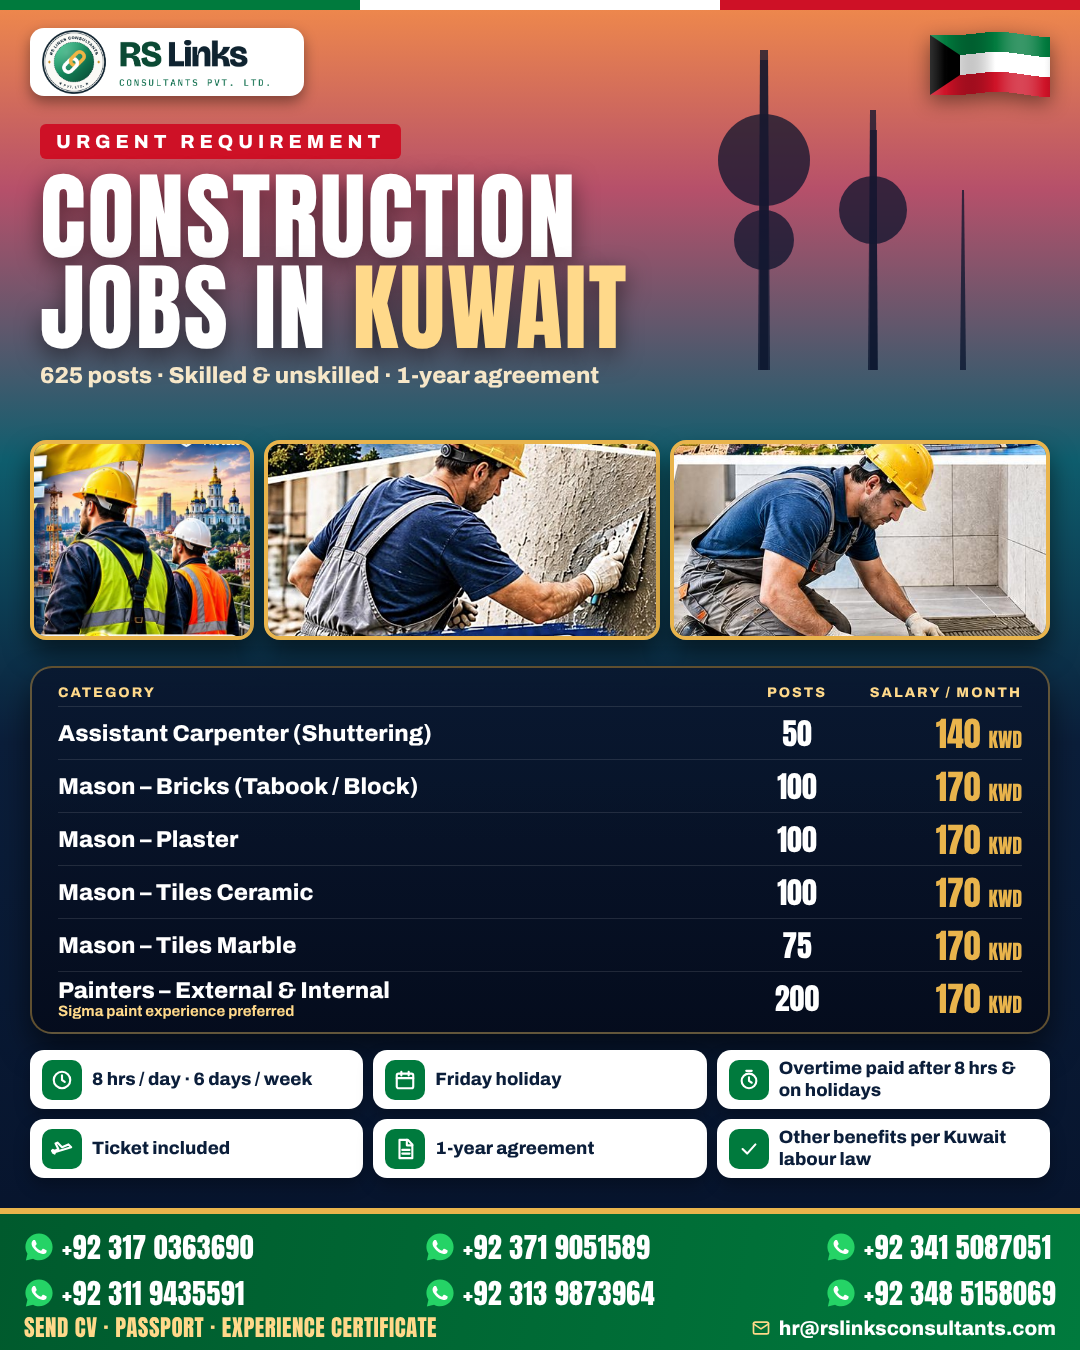
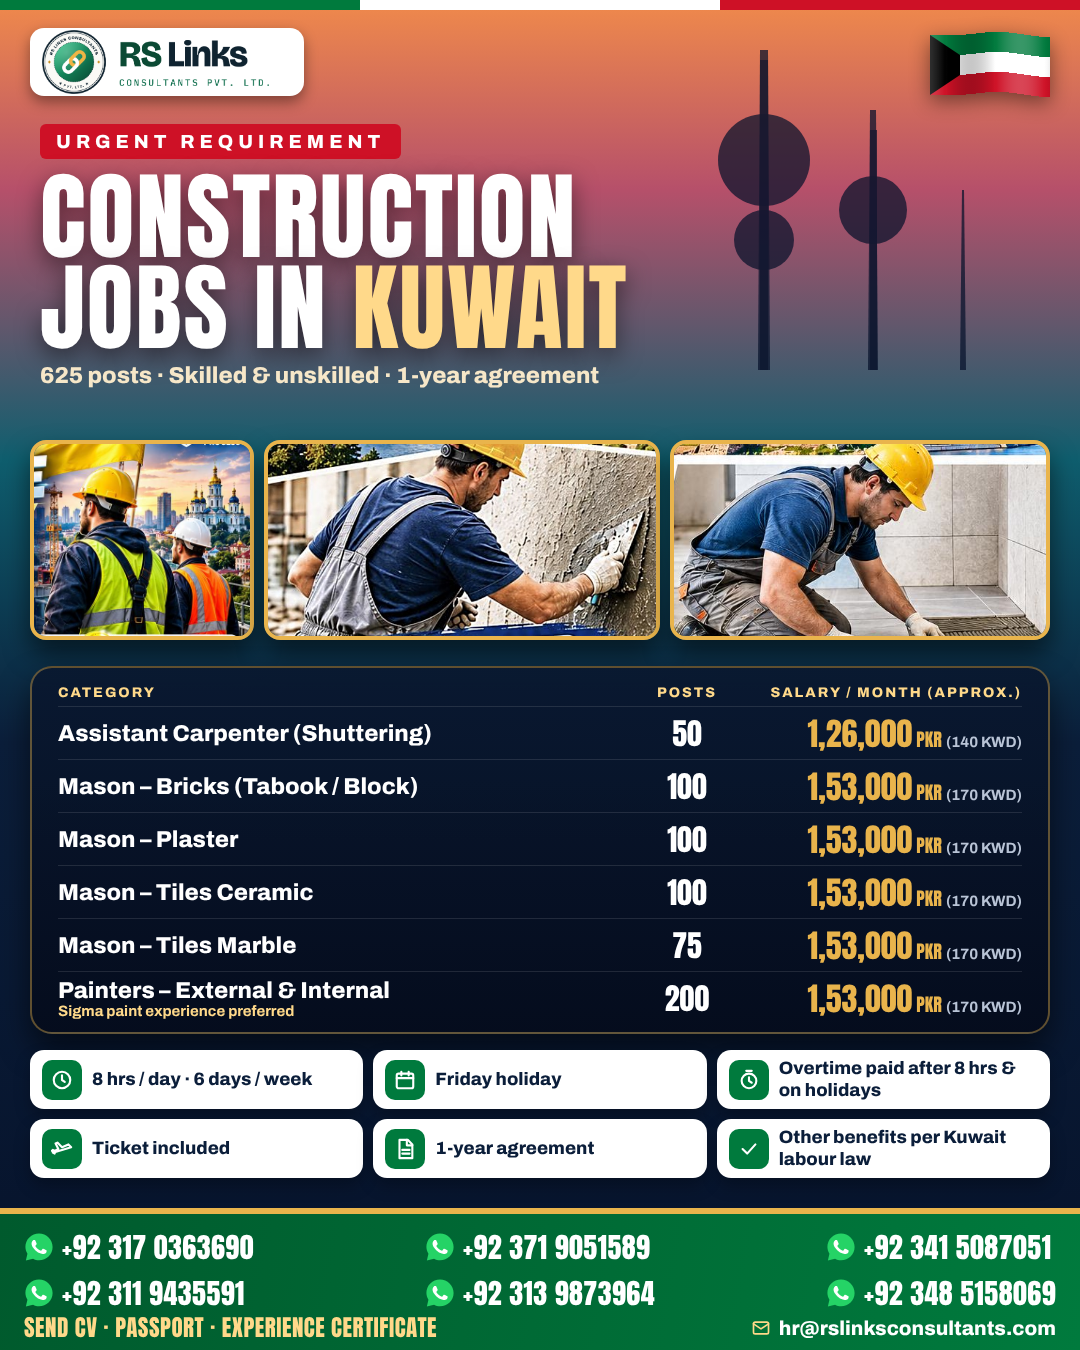
Kuwait construction ads: salaries in PKR (approx.) with KWD
Claude-Session: https://claude.ai/code/session_01YJ5ofgU8QCiWTsYR9pvXG4

Changed region(s): [[0.7028, 0.4978, 0.9472, 0.7778], [0.6111, 0.4978, 0.6722, 0.7467]]

diff --git a/src/kuwait_construction_ur.py b/src/kuwait_construction_ur.py
@@ -5,16 +5,17 @@ from kuwait_construction import NAVY, NAVY2, TEAL, GOLD, GOLD2, GRN, RED, INK, E
 
 N = lambda v: f"<span class='num'>{v}</span>"
 T = lambda s, px, c, extra="", lh=1.8: f"<div class='t' style='font-size:{px}px;color:{c};line-height:{lh};{extra}'>{s}</div>"
+PKR = {'140': '1,26,000', '170': '1,53,000'}  # approx. at 1 KWD ≈ 900 PKR (user to confirm)
 JOBS = [("اسسٹنٹ کارپینٹر (شٹرنگ)", "", "50", "140"), ("میسن – برک (طابوق / بلاک)", "", "100", "170"), ("میسن – پلستر", "", "100", "170"),
         ("میسن – سرامک ٹائلز", "", "100", "170"), ("میسن – ماربل ٹائلز", "", "75", "170"), ("پینٹرز – ایکسٹرنل و انٹرنل", "سگما پینٹ کا تجربہ رکھنے والوں کو ترجیح", "200", "170")]
 
 
 def build():
     P = lambda f: (PHOTOS / f).as_uri()
-    rows = "".join(f"<div style='display:grid;grid-template-columns:1fr 110px 170px;align-items:center;min-height:56px;border-top:1px solid #ffffff1c'>"
+    rows = "".join(f"<div style='display:grid;grid-template-columns:1fr 90px 290px;align-items:center;min-height:56px;border-top:1px solid #ffffff1c'>"
                    f"<div>{T(t, 25, '#fff', 'font-weight:700', 1.75)}{T(n, 15, GOLD2, 'font-weight:700;margin-top:10px', 1.4) if n else ''}</div>"
                    f"<span style='font:400 30px Anton;color:#fff;text-align:center'>{q}</span>"
-                   f"<span style='font:400 34px Anton;color:{GOLD};text-align:left;direction:ltr'>{s} <span style='font-size:20px'>KWD</span></span></div>" for t, n, q, s in JOBS)
+                   f"<span style='text-align:left;direction:ltr;line-height:1;white-space:nowrap'><span style='font:400 32px Anton;color:{GOLD}'>{PKR[s]}</span> <span style='font:400 18px Anton;color:{GOLD}'>PKR</span> <span style='font:700 15px Archivo;color:#B9C4D6'>({s} KWD)</span></span></div>" for t, n, q, s in JOBS)
     chips = [("clock", f"ڈیوٹی {N(8)} گھنٹے · ہفتے میں {N(6)} دن"), ("calendar", "جمعہ چھٹی"), ("overtime", f"{N(8)} گھنٹے کے بعد اور چھٹی پر اوور ٹائم"),
              ("plane", "ٹکٹ شامل"), ("doc", f"{N(1)} سال کا معاہدہ"), ("check", "دیگر مراعات کویت لیبر لاء کے مطابق")]
     chip = "".join(f"<div style='display:flex;align-items:center;gap:10px;background:#fff;border-radius:14px;padding:4px 12px;box-shadow:0 8px 16px #0004'>"
@@ -37,9 +38,9 @@ def build():
  <div style='flex:1.13'>{ph('ua_hero.png', 'center')}</div><div style='flex:2'>{ph('rs_plaster2.jpg', 'center')}</div><div style='flex:1.92'>{ph('rs_tile_mason.png', 'center')}</div></div>
 
 <div class='abs' style='top:666px;left:30px;right:30px;border-radius:22px;background:linear-gradient(180deg,#0A1830ee,#050C1Cee);border:2px solid {GOLD}66;padding:6px 26px 8px;box-sizing:border-box;box-shadow:0 16px 30px #0008'>
- <div style='display:grid;grid-template-columns:1fr 110px 170px;height:36px;align-items:center'>{T('شعبہ', 18, GOLD2, 'font-weight:700', 1.6)}{T('آسامیاں', 18, GOLD2, 'font-weight:700;text-align:center', 1.6)}{T('ماہانہ تنخواہ', 18, GOLD2, 'font-weight:700;text-align:left', 1.6)}</div>{rows}</div>
+ <div style='display:grid;grid-template-columns:1fr 90px 290px;height:36px;align-items:center'>{T('شعبہ', 18, GOLD2, 'font-weight:700', 1.6)}{T('آسامیاں', 18, GOLD2, 'font-weight:700;text-align:center', 1.6)}{T('ماہانہ تنخواہ (تقریباً)', 18, GOLD2, 'font-weight:700;text-align:left', 1.6)}</div>{rows}</div>
 
-<div class='abs' style='top:1074px;left:30px;right:30px;display:grid;grid-template-columns:1fr 1fr 1fr;gap:10px'>{chip}</div>
+<div class='abs' style='top:1084px;left:30px;right:30px;display:grid;grid-template-columns:1fr 1fr 1fr;gap:10px'>{chip}</div>
 
 <div class='abs' style='top:1214px;left:0;width:1080px;height:136px;background:linear-gradient(100deg,#005A2D,{GRN})'></div>
 <div class='abs' style='top:1208px;left:0;width:1080px;height:6px;background:{GOLD}'></div>

diff --git a/src/kuwait_construction.py b/src/kuwait_construction.py
@@ -11,6 +11,7 @@ from common import PHONES, PHOTOS, flag, font_css, icon, logo_img, render, whats
 
 NAVY, NAVY2, TEAL, GOLD, GOLD2, GRN, RED, INK = "#0B1E3A", "#06122A", "#0F5E6E", "#E9B44C", "#FFD98A", "#007A3D", "#CE1126", "#0B1E3A"
 EMAIL = "hr@rslinksconsultants.com"
+PKR = {'140': '1,26,000', '170': '1,53,000'}  # approx. at 1 KWD ≈ 900 PKR (user to confirm)
 JOBS = [("Assistant Carpenter (Shuttering)", "", "50", "140"), ("Mason – Bricks (Tabook / Block)", "", "100", "170"), ("Mason – Plaster", "", "100", "170"),
         ("Mason – Tiles Ceramic", "", "100", "170"), ("Mason – Tiles Marble", "", "75", "170"), ("Painters – External &amp; Internal", "Sigma paint experience preferred", "200", "170")]
 
@@ -24,10 +25,10 @@ def towers(col):
 
 def build():
     P = lambda f: (PHOTOS / f).as_uri()
-    rows = "".join(f"<div style='display:grid;grid-template-columns:1fr 110px 170px;align-items:center;min-height:53px;border-top:1px solid #ffffff1c'>"
+    rows = "".join(f"<div style='display:grid;grid-template-columns:1fr 90px 290px;align-items:center;min-height:53px;border-top:1px solid #ffffff1c'>"
                    f"<div><div style='font:800 23px Archivo;color:#fff'>{t}</div>{f'<div style=\"font:700 15px Archivo;color:{GOLD2}\">{n}</div>' if n else ''}</div>"
                    f"<span style='font:400 30px Anton;color:#fff;text-align:center'>{q}</span>"
-                   f"<span style='font:400 34px Anton;color:{GOLD};text-align:right'>{s} <span style='font-size:20px'>KWD</span></span></div>" for t, n, q, s in JOBS)
+                   f"<span style='text-align:right;line-height:1;white-space:nowrap'><span style='font:400 32px Anton;color:{GOLD}'>{PKR[s]}</span> <span style='font:400 18px Anton;color:{GOLD}'>PKR</span> <span style='font:700 15px Archivo;color:#B9C4D6'>({s} KWD)</span></span></div>" for t, n, q, s in JOBS)
     chips = [("clock", "8 hrs / day · 6 days / week"), ("calendar", "Friday holiday"), ("overtime", "Overtime paid after 8 hrs &amp; on holidays"),
              ("plane", "Ticket included"), ("doc", "1-year agreement"), ("check", "Other benefits per Kuwait labour law")]
     chip = "".join(f"<div style='display:flex;align-items:center;gap:10px;background:#fff;border-radius:14px;padding:8px 12px;box-shadow:0 8px 16px #0004'>"
@@ -50,7 +51,7 @@ def build():
  <div style='flex:1.13'>{ph('ua_hero.png', 'center')}</div><div style='flex:2'>{ph('rs_plaster2.jpg', 'center')}</div><div style='flex:1.92'>{ph('rs_tile_mason.png', 'center')}</div></div>
 
 <div class='abs' style='top:666px;left:30px;right:30px;border-radius:22px;background:linear-gradient(180deg,#0A1830ee,#050C1Cee);border:2px solid {GOLD}66;padding:10px 26px 8px;box-sizing:border-box;box-shadow:0 16px 30px #0008'>
- <div style='display:grid;grid-template-columns:1fr 110px 170px;font:800 14px Archivo;color:{GOLD2};letter-spacing:2px;height:28px;align-items:center'><span>CATEGORY</span><span style='text-align:center'>POSTS</span><span style='text-align:right'>SALARY / MONTH</span></div>{rows}</div>
+ <div style='display:grid;grid-template-columns:1fr 90px 290px;font:800 14px Archivo;color:{GOLD2};letter-spacing:2px;height:28px;align-items:center'><span>CATEGORY</span><span style='text-align:center'>POSTS</span><span style='text-align:right'>SALARY / MONTH (APPROX.)</span></div>{rows}</div>
 
 <div class='abs' style='top:1050px;left:30px;right:30px;display:grid;grid-template-columns:1fr 1fr 1fr;gap:10px'>{chip}</div>
 
